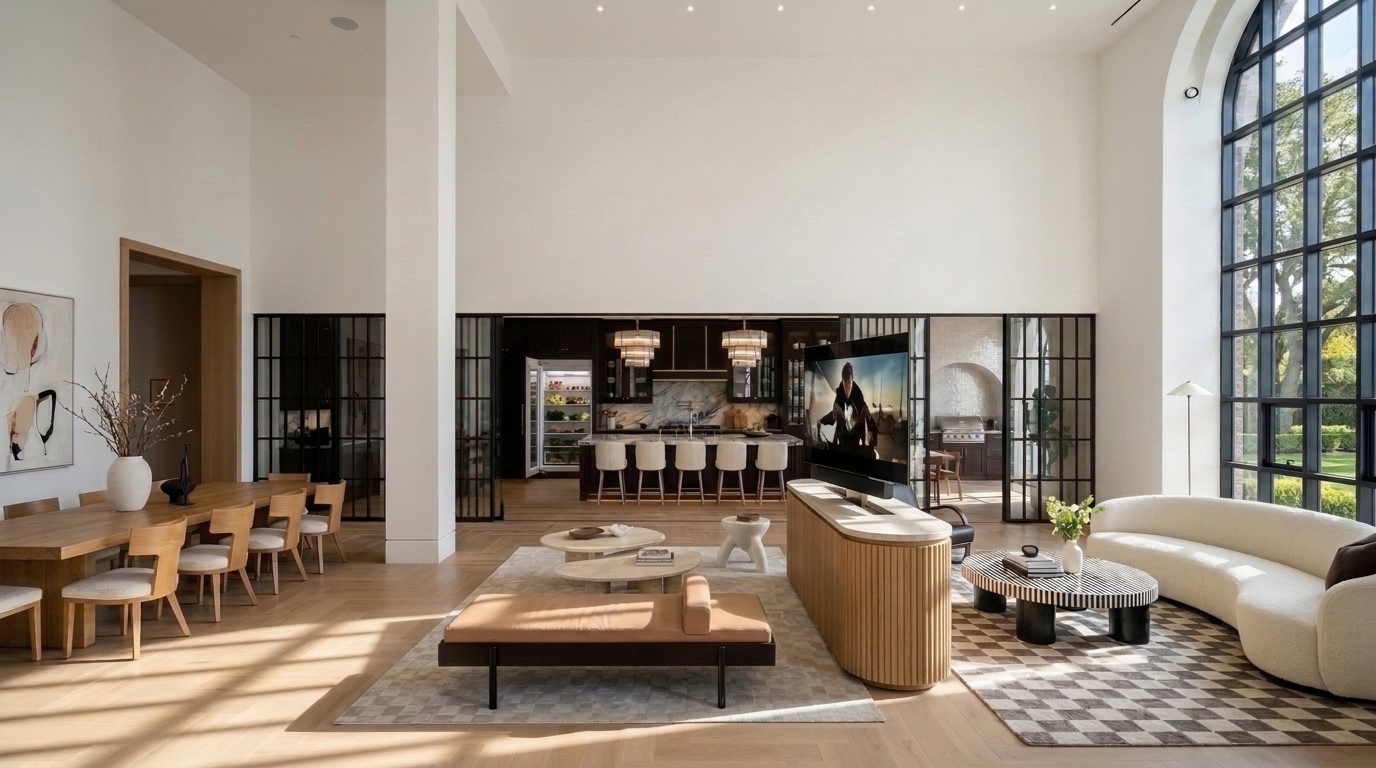
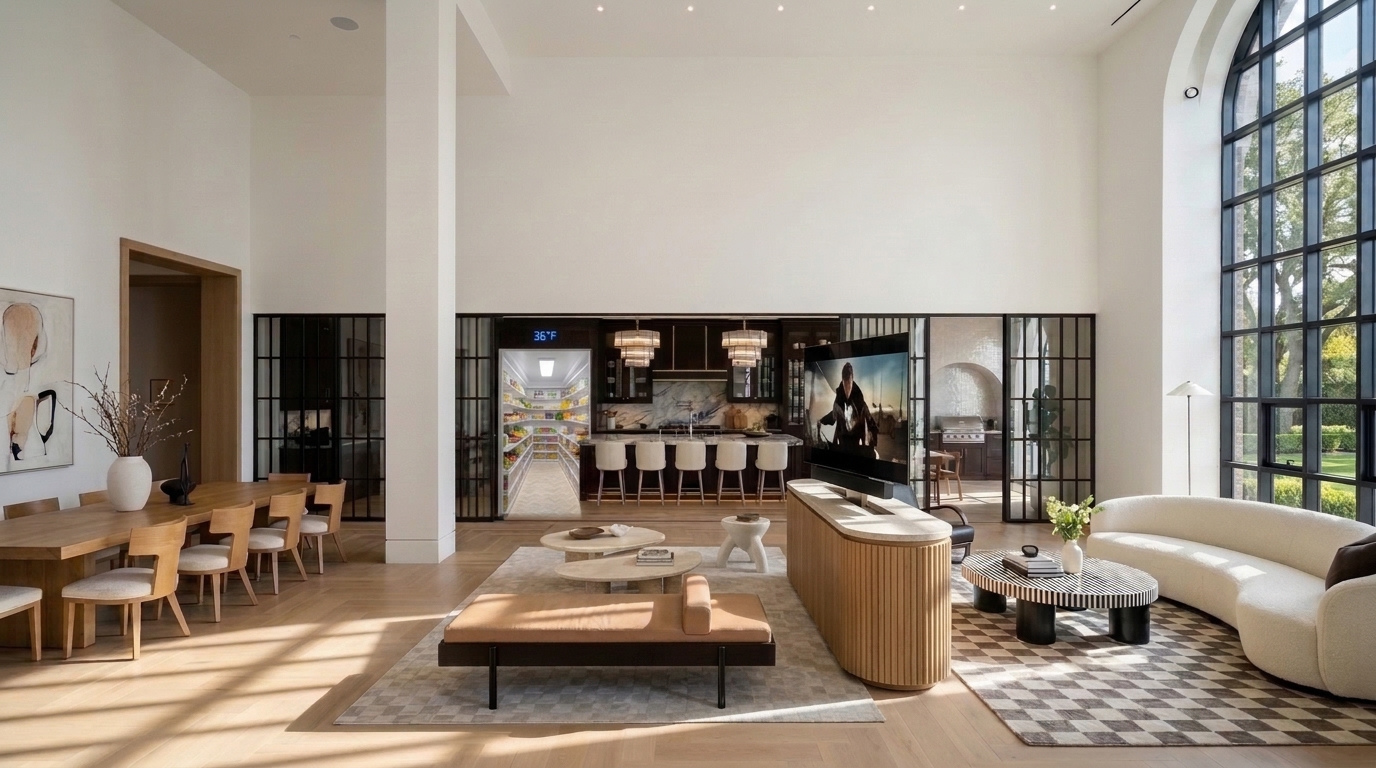
Upgrade walk-in refrigerator to 14-foot depth with rear bulk storage and 8ft6in-9ft0in doorway/ceiling head clearance for 6ft8in homeowner

Changed region(s): [[0.3438, 0.4062, 0.4375, 0.6875]]

diff --git a/estate_interactive_lookbook_standalone.html b/estate_interactive_lookbook_standalone.html
@@ -184,7 +184,7 @@
         <div class="grid grid-cols-1 lg:grid-cols-2 gap-5">
           <div onclick="openLightbox(39)" class="group cursor-zoom-in bg-stone-950 border border-amber-500/40 rounded-xl overflow-hidden">
             <div class="relative overflow-hidden">
-              <img src="static/images/01e_kitchen_walk_in_refrigerator.jpg?v=tv_fridge_sync_v1" alt="Dedicated Showcase View: Custom Built-In Dark Cherry / Mahogany Walk-In Refrigerator (36°F) with Both Doors Swung Wide Open in Our Chef's Kitchen" class="w-full h-64 sm:h-72 object-cover group-hover:scale-105 transition duration-500" />
+              <img src="static/images/01e_kitchen_walk_in_refrigerator.jpg?v=deep_fridge_6ft8_v2" alt="Dedicated Showcase View: Custom Built-In Dark Cherry / Mahogany Walk-In Refrigerator (36°F) with Both Doors Swung Wide Open in Our Chef's Kitchen" class="w-full h-64 sm:h-72 object-cover group-hover:scale-105 transition duration-500" />
               <div class="absolute top-3 left-3 px-2.5 py-1 rounded-md bg-amber-500 text-xs font-bold text-stone-950">1. WALK-IN REFRIGERATOR SHOWCASE (`36°F` • `De9XZ39x8aN` Video Style)</div>
             </div>
             <div class="p-4">
@@ -194,7 +194,7 @@
 
           <div onclick="openLightbox(6)" class="group cursor-zoom-in bg-stone-950 border border-amber-500/40 rounded-xl overflow-hidden">
             <div class="relative overflow-hidden">
-              <img src="static/images/01_great_room_kitchen.jpg?v=tv_fridge_sync_v1" alt="Wide Chef's Kitchen View Integrating the Custom Built-In Dark Cherry Walk-In Refrigerator on the Left Alongside the 22-Foot Island & Open Crittall Glass Wall" class="w-full h-64 sm:h-72 object-cover group-hover:scale-105 transition duration-500" />
+              <img src="static/images/01_great_room_kitchen.jpg?v=deep_fridge_6ft8_v2" alt="Wide Chef's Kitchen View Integrating the Custom Built-In Dark Cherry Walk-In Refrigerator on the Left Alongside the 22-Foot Island & Open Crittall Glass Wall" class="w-full h-64 sm:h-72 object-cover group-hover:scale-105 transition duration-500" />
               <div class="absolute top-3 left-3 px-2.5 py-1 rounded-md bg-amber-500 text-xs font-bold text-stone-950">2. WIDE CHEF'S KITCHEN VIEW WITH WALK-IN REFRIGERATOR</div>
             </div>
             <div class="p-4">
@@ -255,7 +255,7 @@
         <div class="grid grid-cols-1 md:grid-cols-2 xl:grid-cols-4 gap-5">
           <div onclick="openLightbox(4)" class="group cursor-zoom-in bg-stone-950 border border-amber-500/40 rounded-xl overflow-hidden">
             <div class="relative overflow-hidden">
-              <img src="static/images/01d_great_hall_tv_from_couch.jpg?v=tv_fridge_sync_v1" alt="True-to-Scale Concealed Motorized Pop-Up & 360-Swivel 85-Inch OLED TV Credenza (~90 Inches Wide x 48 Inches Tall) Facing the Great Hall Couch" class="w-full h-56 object-cover group-hover:scale-105 transition duration-500" />
+              <img src="static/images/01d_great_hall_tv_from_couch.jpg?v=deep_fridge_6ft8_v2" alt="True-to-Scale Concealed Motorized Pop-Up & 360-Swivel 85-Inch OLED TV Credenza (~90 Inches Wide x 48 Inches Tall) Facing the Great Hall Couch" class="w-full h-56 object-cover group-hover:scale-105 transition duration-500" />
               <div class="absolute top-3 left-3 px-2.5 py-1 rounded-md bg-amber-500 text-xs font-bold text-stone-950">1. Great Hall — True-to-Scale 85" TV Credenza</div>
             </div>
             <div class="p-3.5">
@@ -265,7 +265,7 @@
 
           <div onclick="openLightbox(7)" class="group cursor-zoom-in bg-stone-950 border border-amber-500/40 rounded-xl overflow-hidden">
             <div class="relative overflow-hidden">
-              <img src="static/images/01c_dual_sided_grand_staircase.jpg?v=tv_fridge_sync_v1" alt="Realistic Dual-Sided Grand Staircase Clearly Showing the First-Floor Great Hall Foreground & Full-Width Second-Floor Gallery Stretching Across the Backside of the House" class="w-full h-56 object-cover group-hover:scale-105 transition duration-500" />
+              <img src="static/images/01c_dual_sided_grand_staircase.jpg?v=deep_fridge_6ft8_v2" alt="Realistic Dual-Sided Grand Staircase Clearly Showing the First-Floor Great Hall Foreground & Full-Width Second-Floor Gallery Stretching Across the Backside of the House" class="w-full h-56 object-cover group-hover:scale-105 transition duration-500" />
               <div class="absolute top-3 left-3 px-2.5 py-1 rounded-md bg-amber-500 text-xs font-bold text-stone-950">2. Dual-Sided Stairs — Great Hall + Full Upstairs</div>
             </div>
             <div class="p-3.5">
@@ -1296,7 +1296,7 @@
         ]
       },
       {
-        src: "static/images/01a_living_room_great_room.jpg?v=tv_fridge_sync_v1",
+        src: "static/images/01a_living_room_great_room.jpg?v=deep_fridge_6ft8_v2",
         category: "level1",
         zone: "Level 1 (Open First Floor: 24' Great Hall ➔ Kitchen)",
         badge: "Level 1 • Soaring 24' Great Hall, Arched Black-Steel Cathedral Windows, 3 Open Zones & Crittall Partition to Dark Cherry Kitchen",
@@ -1310,7 +1310,7 @@
         ]
       },
       {
-        src: "static/images/01d_great_hall_tv_from_couch.jpg?v=tv_fridge_sync_v1",
+        src: "static/images/01d_great_hall_tv_from_couch.jpg?v=deep_fridge_6ft8_v2",
         category: "level1",
         zone: "Level 1 (Great Hall TV From Couch — True-to-Scale 85\" OLED Credenza)",
         badge: "Level 1 • True-to-Scale Concealed Motorized Pop-Up & 360°-Swivel 85\" OLED TV Credenza (~90\" W × 48\" H) Facing the Curved Bouclé Couch",
@@ -1324,7 +1324,7 @@
         ]
       },
       {
-        src: "static/images/01b_open_first_floor_kitchen_loggia.jpg?v=tv_fridge_sync_v1",
+        src: "static/images/01b_open_first_floor_kitchen_loggia.jpg?v=deep_fridge_6ft8_v2",
         category: "level1",
         zone: "Level 1 (Reverse: Kitchen & Zellige Loggia ➔ Great Hall)",
         badge: "Level 1 • Unchanged Dark Cherry Kitchen & 22' Island + Barrel-Vaulted Pearlescent Zellige Loggia (Overlooking Back Pool) Looking Into 24' Great Hall",
@@ -1338,7 +1338,7 @@
         ]
       },
       {
-        src: "static/images/01_great_room_kitchen.jpg?v=tv_fridge_sync_v1",
+        src: "static/images/01_great_room_kitchen.jpg?v=deep_fridge_6ft8_v2",
         category: "level1",
         zone: "Level 1 (Chef's Kitchen Close-Up — Built-In Walk-In Refrigerator, 22' Island & Crittall Wall)",
         badge: "Level 1 • Preserved Dark Cherry / Mahogany Kitchen Upgraded with the Custom Built-In Walk-In Refrigerator (De9XZ39x8aN Video Style), 22' Island & China Cabinet Next to Back Pool Doors",
@@ -1352,7 +1352,7 @@
         ]
       },
       {
-        src: "static/images/01c_dual_sided_grand_staircase.jpg?v=tv_fridge_sync_v1",
+        src: "static/images/01c_dual_sided_grand_staircase.jpg?v=deep_fridge_6ft8_v2",
         category: "level1",
         zone: "Level 1 ➔ Level 2 (Dual-Sided Stairs — Great Hall Connection & Full-Width Upstairs)",
         badge: "Level 1 ➔ Level 2 • Realistic Dual-Sided Grand Staircase Clearly Showing the First-Floor Great Hall It Connects To & the Full-Width Second-Floor Gallery Stretching Across the Backside of the House",
@@ -1828,7 +1828,7 @@
         ]
       },
       {
-        src: "static/images/01e_kitchen_walk_in_refrigerator.jpg?v=tv_fridge_sync_v1",
+        src: "static/images/01e_kitchen_walk_in_refrigerator.jpg?v=deep_fridge_6ft8_v2",
         category: "level1",
         zone: "Level 1 (Chef's Kitchen — Custom Built-In 36°F Walk-In Refrigerator Showcase)",
         badge: "Level 1 • Custom Built-In Dark Cherry / Mahogany Walk-In Refrigerator / Cold Room (36°F • Inspired by https://www.instagram.com/reels/De9XZ39x8aN/)",

diff --git a/index.html b/index.html
@@ -184,7 +184,7 @@
         <div class="grid grid-cols-1 lg:grid-cols-2 gap-5">
           <div onclick="openLightbox(39)" class="group cursor-zoom-in bg-stone-950 border border-amber-500/40 rounded-xl overflow-hidden">
             <div class="relative overflow-hidden">
-              <img src="static/images/01e_kitchen_walk_in_refrigerator.jpg?v=tv_fridge_sync_v1" alt="Dedicated Showcase View: Custom Built-In Dark Cherry / Mahogany Walk-In Refrigerator (36°F) with Both Doors Swung Wide Open in Our Chef's Kitchen" class="w-full h-64 sm:h-72 object-cover group-hover:scale-105 transition duration-500" />
+              <img src="static/images/01e_kitchen_walk_in_refrigerator.jpg?v=deep_fridge_6ft8_v2" alt="Dedicated Showcase View: Custom Built-In Dark Cherry / Mahogany Walk-In Refrigerator (36°F) with Both Doors Swung Wide Open in Our Chef's Kitchen" class="w-full h-64 sm:h-72 object-cover group-hover:scale-105 transition duration-500" />
               <div class="absolute top-3 left-3 px-2.5 py-1 rounded-md bg-amber-500 text-xs font-bold text-stone-950">1. WALK-IN REFRIGERATOR SHOWCASE (`36°F` • `De9XZ39x8aN` Video Style)</div>
             </div>
             <div class="p-4">
@@ -194,7 +194,7 @@
 
           <div onclick="openLightbox(6)" class="group cursor-zoom-in bg-stone-950 border border-amber-500/40 rounded-xl overflow-hidden">
             <div class="relative overflow-hidden">
-              <img src="static/images/01_great_room_kitchen.jpg?v=tv_fridge_sync_v1" alt="Wide Chef's Kitchen View Integrating the Custom Built-In Dark Cherry Walk-In Refrigerator on the Left Alongside the 22-Foot Island & Open Crittall Glass Wall" class="w-full h-64 sm:h-72 object-cover group-hover:scale-105 transition duration-500" />
+              <img src="static/images/01_great_room_kitchen.jpg?v=deep_fridge_6ft8_v2" alt="Wide Chef's Kitchen View Integrating the Custom Built-In Dark Cherry Walk-In Refrigerator on the Left Alongside the 22-Foot Island & Open Crittall Glass Wall" class="w-full h-64 sm:h-72 object-cover group-hover:scale-105 transition duration-500" />
               <div class="absolute top-3 left-3 px-2.5 py-1 rounded-md bg-amber-500 text-xs font-bold text-stone-950">2. WIDE CHEF'S KITCHEN VIEW WITH WALK-IN REFRIGERATOR</div>
             </div>
             <div class="p-4">
@@ -255,7 +255,7 @@
         <div class="grid grid-cols-1 md:grid-cols-2 xl:grid-cols-4 gap-5">
           <div onclick="openLightbox(4)" class="group cursor-zoom-in bg-stone-950 border border-amber-500/40 rounded-xl overflow-hidden">
             <div class="relative overflow-hidden">
-              <img src="static/images/01d_great_hall_tv_from_couch.jpg?v=tv_fridge_sync_v1" alt="True-to-Scale Concealed Motorized Pop-Up & 360-Swivel 85-Inch OLED TV Credenza (~90 Inches Wide x 48 Inches Tall) Facing the Great Hall Couch" class="w-full h-56 object-cover group-hover:scale-105 transition duration-500" />
+              <img src="static/images/01d_great_hall_tv_from_couch.jpg?v=deep_fridge_6ft8_v2" alt="True-to-Scale Concealed Motorized Pop-Up & 360-Swivel 85-Inch OLED TV Credenza (~90 Inches Wide x 48 Inches Tall) Facing the Great Hall Couch" class="w-full h-56 object-cover group-hover:scale-105 transition duration-500" />
               <div class="absolute top-3 left-3 px-2.5 py-1 rounded-md bg-amber-500 text-xs font-bold text-stone-950">1. Great Hall — True-to-Scale 85" TV Credenza</div>
             </div>
             <div class="p-3.5">
@@ -265,7 +265,7 @@
 
           <div onclick="openLightbox(7)" class="group cursor-zoom-in bg-stone-950 border border-amber-500/40 rounded-xl overflow-hidden">
             <div class="relative overflow-hidden">
-              <img src="static/images/01c_dual_sided_grand_staircase.jpg?v=tv_fridge_sync_v1" alt="Realistic Dual-Sided Grand Staircase Clearly Showing the First-Floor Great Hall Foreground & Full-Width Second-Floor Gallery Stretching Across the Backside of the House" class="w-full h-56 object-cover group-hover:scale-105 transition duration-500" />
+              <img src="static/images/01c_dual_sided_grand_staircase.jpg?v=deep_fridge_6ft8_v2" alt="Realistic Dual-Sided Grand Staircase Clearly Showing the First-Floor Great Hall Foreground & Full-Width Second-Floor Gallery Stretching Across the Backside of the House" class="w-full h-56 object-cover group-hover:scale-105 transition duration-500" />
               <div class="absolute top-3 left-3 px-2.5 py-1 rounded-md bg-amber-500 text-xs font-bold text-stone-950">2. Dual-Sided Stairs — Great Hall + Full Upstairs</div>
             </div>
             <div class="p-3.5">
@@ -1296,7 +1296,7 @@
         ]
       },
       {
-        src: "static/images/01a_living_room_great_room.jpg?v=tv_fridge_sync_v1",
+        src: "static/images/01a_living_room_great_room.jpg?v=deep_fridge_6ft8_v2",
         category: "level1",
         zone: "Level 1 (Open First Floor: 24' Great Hall ➔ Kitchen)",
         badge: "Level 1 • Soaring 24' Great Hall, Arched Black-Steel Cathedral Windows, 3 Open Zones & Crittall Partition to Dark Cherry Kitchen",
@@ -1310,7 +1310,7 @@
         ]
       },
       {
-        src: "static/images/01d_great_hall_tv_from_couch.jpg?v=tv_fridge_sync_v1",
+        src: "static/images/01d_great_hall_tv_from_couch.jpg?v=deep_fridge_6ft8_v2",
         category: "level1",
         zone: "Level 1 (Great Hall TV From Couch — True-to-Scale 85\" OLED Credenza)",
         badge: "Level 1 • True-to-Scale Concealed Motorized Pop-Up & 360°-Swivel 85\" OLED TV Credenza (~90\" W × 48\" H) Facing the Curved Bouclé Couch",
@@ -1324,7 +1324,7 @@
         ]
       },
       {
-        src: "static/images/01b_open_first_floor_kitchen_loggia.jpg?v=tv_fridge_sync_v1",
+        src: "static/images/01b_open_first_floor_kitchen_loggia.jpg?v=deep_fridge_6ft8_v2",
         category: "level1",
         zone: "Level 1 (Reverse: Kitchen & Zellige Loggia ➔ Great Hall)",
         badge: "Level 1 • Unchanged Dark Cherry Kitchen & 22' Island + Barrel-Vaulted Pearlescent Zellige Loggia (Overlooking Back Pool) Looking Into 24' Great Hall",
@@ -1338,7 +1338,7 @@
         ]
       },
       {
-        src: "static/images/01_great_room_kitchen.jpg?v=tv_fridge_sync_v1",
+        src: "static/images/01_great_room_kitchen.jpg?v=deep_fridge_6ft8_v2",
         category: "level1",
         zone: "Level 1 (Chef's Kitchen Close-Up — Built-In Walk-In Refrigerator, 22' Island & Crittall Wall)",
         badge: "Level 1 • Preserved Dark Cherry / Mahogany Kitchen Upgraded with the Custom Built-In Walk-In Refrigerator (De9XZ39x8aN Video Style), 22' Island & China Cabinet Next to Back Pool Doors",
@@ -1352,7 +1352,7 @@
         ]
       },
       {
-        src: "static/images/01c_dual_sided_grand_staircase.jpg?v=tv_fridge_sync_v1",
+        src: "static/images/01c_dual_sided_grand_staircase.jpg?v=deep_fridge_6ft8_v2",
         category: "level1",
         zone: "Level 1 ➔ Level 2 (Dual-Sided Stairs — Great Hall Connection & Full-Width Upstairs)",
         badge: "Level 1 ➔ Level 2 • Realistic Dual-Sided Grand Staircase Clearly Showing the First-Floor Great Hall It Connects To & the Full-Width Second-Floor Gallery Stretching Across the Backside of the House",
@@ -1828,7 +1828,7 @@
         ]
       },
       {
-        src: "static/images/01e_kitchen_walk_in_refrigerator.jpg?v=tv_fridge_sync_v1",
+        src: "static/images/01e_kitchen_walk_in_refrigerator.jpg?v=deep_fridge_6ft8_v2",
         category: "level1",
         zone: "Level 1 (Chef's Kitchen — Custom Built-In 36°F Walk-In Refrigerator Showcase)",
         badge: "Level 1 • Custom Built-In Dark Cherry / Mahogany Walk-In Refrigerator / Cold Room (36°F • Inspired by https://www.instagram.com/reels/De9XZ39x8aN/)",

diff --git a/docs/main_home_interior_design_concept.md b/docs/main_home_interior_design_concept.md
@@ -40,23 +40,23 @@ flowchart TB
     ChinaCab -->|"Right Next to Back Pool Door"| BackPool
 ```
 
-### A. Open First Floor View 1 — Soaring 24-Foot Gallery-White Great Hall (Arched Black-Steel Cathedral Windows, Curved Bouclé Window Lounge, Camel Daybed & Travertine Center Lounge, Open 12-Seat Oak Dining Hall & Single Structural Pier) Looking Through the Open Floor-to-Ceiling Black-Steel Crittall Glass Grid Partition Into the Preserved Dark Cherry / Mahogany Kitchen & 22-Foot Island
-![Soaring 24-Foot Open First Floor Great Hall Inspired by Instagram Video DcL3q3doXhq — Towering Two-Story Arched Matte-Black Steel Cathedral Windows Casting Sunlight Across Wide-Plank & Herringbone European White-Oak Floors, Single Square Structural Pier Subtly Dividing Three Seamless Open Zones (Right Foreground Curved Ivory Bouclé Sofa & Black-and-White Striped Round Coffee Table on Checkered Wool Rug; Center Midground Camel Leather Daybed & Nested Organic Travertine Coffee Tables; Left Midground 12-Seat Natural Oak Formal Dining Table & Warm Oak-Cased Gallery Portal to the Unchanged Bedroom/Theater Wings), Looking Straight Through the Wide-Open Floor-to-Ceiling Matte-Black Steel & Glass Crittall Sliding Grid Partition Into the 100% Preserved Dark Cherry / Mahogany Chef's Kitchen with Its 22-Foot Calacatta Verde/Viola Marble Island](/home/brianvinson/.gemini/jetski/brain/96883fd9-49e4-474d-86a1-0423e4655f3f/open_first_floor_v2_great_hall_to_dark_cherry_kitchen_1792816413555.jpg)
+### A. Open First Floor View 1 — Soaring 24-Foot Gallery-White Great Hall (Showing the Concealed TV Credenza in Its Retracted Daily State Between the Curved Bouclé Sofa & Camel Leather Daybed) Looking Through the Open Black-Steel Crittall Glass Partition Into the Dark Cherry Kitchen (With the Walk-In Refrigerator on the Left of the 60" Range & China Cabinet on the Right)
+![Soaring 24-Foot Open First Floor Great Hall Inspired by Instagram Video DcL3q3doXhq — Showing the True-to-Scale 90" W x 48" H Fluted European White-Oak & Honed Roman Travertine Concealed TV Credenza in Its Sleek Retracted/Closed State Between the Right Foreground Curved Ivory Bouclé Sofa (on the Checkered Wool Rug) and the Center Midground Camel Leather Daybed & Nested Organic Travertine Tables, Alongside the Left Midground 12-Seat Natural Oak Formal Dining Table, Looking Straight Through the Wide-Open Floor-to-Ceiling Matte-Black Steel & Glass Crittall Sliding Grid Partition Into the Dark Cherry / Mahogany Chef's Kitchen (Walk-In Refrigerator on the Left, 60" Range in the Center, Built-In China Cabinet Secret Door on the Right & 22-Foot Calacatta Verde/Viola Marble Island)](/home/brianvinson/.gemini/jetski/brain/96883fd9-49e4-474d-86a1-0423e4655f3f/open_first_floor_v2_great_hall_to_dark_cherry_kitchen_1792816413555.jpg)
 
-### B. Open First Floor View 2 (Reverse Perspective) — Standing Inside the Preserved Dark Cherry / Mahogany Kitchen (`36' × 26'` w/ 22-Foot Calacatta Verde/Viola Island) & Barrel-Vaulted Pearlescent Moroccan Zellige-Tile Breakfast Loggia (`00:13–00:21` of Video) Overlooking the Back-of-Home Swimming Pool, Looking Through the Open Floor-to-Ceiling Black-Steel Crittall Sliding Glass Grid Partition Back Into the 24-Foot Arched-Window Great Hall
-![Reverse Perspective of the Open First Floor — Standing Inside the 100% Unchanged Dark Cherry / Mahogany Chef's Kitchen (Left, with Monumental 22-Foot Calacatta Verde/Viola Green-and-Burgundy Veined Marble Slab Island, Dark Cherry / Mahogany Base, LED Toe-Kick, Cream Upholstered Stools, Tiered Fluted-Glass & Brass Chandeliers, 60" Black-and-Brass Range & Built-In China Cabinet Secret Speakeasy Door) and the Adjoining Barrel-Vaulted Pearlescent Moroccan Zellige-Tile Indoor-Outdoor Breakfast Loggia (Right, with Shimmering Vaulted Zellige Tile Ceiling, Diagonal Gray-and-Cream Checkerboard Limestone Floor Tiles, Sculptural Potted Olive Tree & Black-Steel Doors Opening to the Back-of-Home Resort Swimming Pool & Pool House/Wellness Center), Looking Through the Wide-Open Floor-to-Ceiling Matte-Black Steel & Glass Crittall Grid Partition Into the Soaring 24-Foot Arched-Window Great Hall](/home/brianvinson/.gemini/jetski/brain/96883fd9-49e4-474d-86a1-0423e4655f3f/open_first_floor_v3_kitchen_crittall_loggia_to_great_hall_1792819656798.jpg)
+### B. Open First Floor View 2 (Reverse Perspective) — Standing Inside the Dark Cherry Kitchen (`36' × 26'` w/ 22-Foot Calacatta Verde/Viola Island) & Barrel-Vaulted Pearlescent Moroccan Zellige-Tile Breakfast Loggia Overlooking the Back-of-Home Swimming Pool, Looking Through the Open Black-Steel Crittall Partition Back Into the 24-Foot Great Hall (Showing the Concealed TV Credenza Between the Curved Bouclé Sofa & Camel Leather Daybed)
+![Reverse Perspective of the Open First Floor — Standing Inside the Dark Cherry / Mahogany Chef's Kitchen (Left, with 60" Black-and-Brass Range, Built-In China Cabinet Secret Speakeasy Door to the Right of the Range & 22-Foot Calacatta Verde/Viola Marble Island) and the Adjoining Barrel-Vaulted Pearlescent Moroccan Zellige-Tile Indoor-Outdoor Breakfast Loggia (Right), Looking Through the Wide-Open Floor-to-Ceiling Matte-Black Steel & Glass Crittall Grid Partition Into the Soaring 24-Foot Arched-Window Great Hall Where the Fluted White-Oak & Roman Travertine Concealed TV Credenza and Raised 85" OLED Screen Sit Between the Curved Ivory Bouclé Sofa and the Camel Leather Daybed](/home/brianvinson/.gemini/jetski/brain/96883fd9-49e4-474d-86a1-0423e4655f3f/open_first_floor_v3_kitchen_crittall_loggia_to_great_hall_1792819656798.jpg)
 
-### C. Close-Up of the Preserved Dark Cherry / Mahogany Chef's Kitchen (`36' × 26'`) With the Custom Built-In Walk-In Refrigerator (`De9XZ39x8aN` Video Style), 22-Foot Calacatta Verde/Viola Marble Island, 60" Black-and-Brass Range, China Cabinet Secret Door Next to the Back-of-Home Pool Doors & Open Black-Steel Crittall Glass Partition to the 24-Foot Great Hall
-![Close-Up View of the Preserved 36'x26' Open-Concept Chef's Kitchen Integrated Into the New Open First Floor — Showcasing the Custom Built-In Dark Cherry / Mahogany Walk-In Refrigerator on the Far Left (With French Doors & Right-Door Vertical Glass Window Swung Open Revealing 5 Tiers of Door Storage Bins, Overhead Rectangular LED Ceiling Light Ring, Herringbone Floor, 3 Lower Tiers of Clear Pull-Out Crisper Drawers & Stocked Upper Shelving Inspired by https://www.instagram.com/reels/De9XZ39x8aN/), 60" Black-and-Brass Range with Sleek Matte-Black & Brass Tapered Hood, Built-In Dark Cherry / Mahogany Illuminated China Cabinet Secret Door Next to the Back-of-Home Pool Doors, and Center 22-Foot Calacatta Verde/Viola Green-and-Burgundy Veined Marble Slab Island with Dark Cherry / Mahogany Base, LED Toe-Kick, 6 Cream Upholstered Stools & Tiered Fluted-Glass Chandelier, Opening on the Right Through the Floor-to-Ceiling Matte-Black Steel & Glass Crittall Sliding Grid Partition Into the Barrel-Vaulted Pearlescent Moroccan Zellige-Tile Loggia, the Back-of-Home Resort Swimming Pool, and the Soaring 24-Foot Arched-Window Great Hall](/home/brianvinson/.gemini/jetski/brain/96883fd9-49e4-474d-86a1-0423e4655f3f/open_first_floor_v3_kitchen_closeup_back_pool_view_1792819690582.jpg)
+### C. Close-Up of the Dark Cherry / Mahogany Chef's Kitchen (`36' × 26'`) With the Custom Built-In Walk-In Refrigerator on the Far Left, 60" Black-and-Brass Range in the Middle-Left, China Cabinet Secret Door on the Back-Left Next to the Pool Doors, 22-Foot Island in the Center & Concealed TV Credenza Visible in the Great Hall on the Far Right
+![Close-Up View of the 36'x26' Open-Concept Chef's Kitchen — Showcasing the Custom Built-In Dark Cherry / Mahogany Walk-In Refrigerator on the Far Left, 32°F Oyster Raw Bar & 60" Black-and-Brass Range in the Middle-Left, Built-In Dark Cherry Illuminated China Cabinet Secret Door at the Back-Left Next to the Pool Doors, 22-Foot Calacatta Verde/Viola Marble Island in the Center, and on the Far Right Through the Open Black-Steel Crittall Glass Partition, the Camel Leather Daybed and the Fluted European White-Oak & Roman Travertine Concealed TV Credenza Between the Daybed and the Curved Ivory Bouclé Sofa](/home/brianvinson/.gemini/jetski/brain/96883fd9-49e4-474d-86a1-0423e4655f3f/open_first_floor_v3_kitchen_closeup_back_pool_view_1792819690582.jpg)
 
-### C2. Dedicated Showcase View: Custom Built-In Dark Cherry / Mahogany Walk-In Refrigerator / Cold Room (`36°F` — Inspired by `https://www.instagram.com/reels/De9XZ39x8aN/`) Integrated Directly Into Our Dark Cherry & Calacatta Verde/Viola Chef's Kitchen
-![Dedicated Showcase View of the Custom Built-In Dark Cherry / Mahogany Walk-In Refrigerator (Inspired by https://www.instagram.com/reels/De9XZ39x8aN/) — Preserving the Essence of Our Kitchen on the Left (22-Foot Calacatta Verde/Viola Waterfall Marble Island with Cream Stools, Tiered Ribbed-Glass & Brass Chandelier, 60" Black-and-Brass Range & Hood, and 32°F–34°F Chilled Oyster Raw Bar & Damascus Knife Vault Column) While Both Custom Dark Cherry French Refrigerator Doors Swing Wide Open Beneath the 36°F Digital Readout to Reveal 5 Tiers of Stocked Refrigerator Door Bins on Both Doors and a Full U-Shaped Walk-In Cold Room Inside (Glowing Rectangular LED Halo Ceiling Light Ring, Herringbone Wood-Tile Floor with Stainless Vent Threshold, 3 Lower Tiers of 12+ Crystal-Clear Pull-Out Refrigerated Crisper Drawers Wrapping Around All 3 Walls, and 3–4 Upper Tiers of Illuminated U-Shaped White Open Shelving)](/home/brianvinson/.gemini/jetski/brain/96883fd9-49e4-474d-86a1-0423e4655f3f/kitchen_walk_in_refrigerator.jpg)
+### C2. Dedicated Showcase View: Custom Built-In Dark Cherry / Mahogany Walk-In Refrigerator / Cold Room (`36°F` — Inspired by `https://www.instagram.com/reels/De9XZ39x8aN/`) Correctly Positioned on the LEFT of the 32°F Oyster Raw Bar & 60" Range, With the China Cabinet Secret Door on the RIGHT of the Range Next to the Back Pool Doors
+![Dedicated Showcase View of the Custom Built-In Dark Cherry / Mahogany Walk-In Refrigerator (Inspired by https://www.instagram.com/reels/De9XZ39x8aN/) — Positioned in Its Correct Place on the LEFT of the Dark Cherry Cabinetry Wall (With Both Custom Dark Cherry French Doors Swung Wide Open Beneath the 36°F Digital Readout to Reveal 5 Tiers of Stocked Door Bins and the U-Shaped Walk-In Cold Room With Rectangular LED Halo Ceiling Light Ring, Herringbone Floor, 3 Lower Tiers of 12+ Clear Pull-Out Crisper Drawers & Upper Illuminated White Open Shelving), Followed in the Center by the 32°F Chilled Oyster Raw Bar, Miele Double Ovens & 60" Black-and-Brass Range & Hood, and on the Far Right by the Built-In Dark Cherry Illuminated Glass-Front China Cabinet (Secret Speakeasy Door) Next to the Tall Black-Steel Back Pool Doors](/home/brianvinson/.gemini/jetski/brain/96883fd9-49e4-474d-86a1-0423e4655f3f/kitchen_walk_in_refrigerator.jpg)
 
-### D. Dual-Sided (Bifurcated Twin-Wing) Grand Staircase Rising From the 24-Foot Great Hall & Formal Dining Area — Showing the First-Floor Room It Connects To Before Going Upward + Expansive Full-Width Second-Floor Gallery Balcony Stretching Across the Whole Backside of the House (`1. Master Bedroom` on Far Left to `5. Separate His Bathroom` on Far Right)
-![Dual-Sided Grand Staircase Rising From the 24-Foot Open First Floor Great Hall — Clearly Showing the First-Floor Great Hall (12-Seat Natural Oak Formal Dining Table & Bouclé Chairs on Left, Camel Leather Daybed & Curved Bouclé Lounge on Right, Herringbone White-Oak Floors & Black-Steel Crittall Glass Partition to Kitchen) That the Staircase Connects To Before Going Upward, and Rising via a Wide Central Flight & Mid-Landing to Two Sweeping Upper Flights and an Expansive Full-Width Upstairs Gallery Balcony Stretching Across the Entire Backside of the House (Backed by the Long Solid Windowless Venetian Plaster Wall Where 3. Her's Closet & 4. His Closet Sit Upstairs), Connecting 1. Upstairs Master Bedroom at the Far West/Left to 5. Separate His Dark Marble Bathroom at the Far East/Right](/home/brianvinson/.gemini/jetski/brain/96883fd9-49e4-474d-86a1-0423e4655f3f/dual_sided_grand_staircase.jpg)
+### D. Dual-Sided (Bifurcated Twin-Wing) Grand Staircase Rising From the 24-Foot Great Hall & Formal Dining Area — Showing the Concealed TV Credenza Between the Camel Leather Daybed & Curved Ivory Bouclé Sofa in the Right Foreground + Expansive Full-Width Second-Floor Gallery Balcony
+![Dual-Sided Grand Staircase Rising From the 24-Foot Open First Floor Great Hall — Showing the First-Floor Great Hall in the Foreground (12-Seat Natural Oak Formal Dining Table on the Left; Camel Leather Daybed, True-to-Scale 90" W x 48" H Fluted White-Oak & Roman Travertine Concealed TV Credenza With Raised 85" OLED Screen, and Curved Ivory Bouclé Sofa on the Checkered Rug on the Right), Rising via a Wide Central Flight & Mid-Landing to Two Sweeping Upper Flights and an Expansive Full-Width Upstairs Gallery Balcony](/home/brianvinson/.gemini/jetski/brain/96883fd9-49e4-474d-86a1-0423e4655f3f/dual_sided_grand_staircase.jpg)
 
-### E. True-to-Scale Concealed 85-Inch TV Cabinet in the Great Hall (`7.5' Wide × 4' Tall` Fluted White-Oak & Roman Travertine Media Credenza Sized to 100% House and Conceal the Full 85-Inch 4K OLED Screen & Soundbar)
-![True-to-Scale Concealed 85-Inch TV Solution in the 24-Foot Great Hall — Keeping the Arched Black-Steel Cathedral Windows, Single Square Pier, Curved Ivory Bouclé Couch, Black-and-White Striped Round Coffee Table, Checkered Rug, Camel Leather Daybed, 12-Seat Oak Dining Table & Open Black-Steel Crittall Glass Partition to the Dark Cherry Kitchen 100% As-Is, While a True-to-Scale 7.5-Foot-Wide by 4-Foot-Tall (90" W × 48" H × 22" D) Honed Roman Travertine & Fluted European White-Oak Architectural Media Credenza Cabinet Physically Houses and Raises the Full 85-Inch 4K OLED TV (74.5" W × 42.5" H) & Dolby Atmos Soundbar on a Heavy-Duty Motorized Lift & 360°-Swivel Column Facing the Curved Ivory Bouclé Couch Area](/home/brianvinson/.gemini/jetski/brain/96883fd9-49e4-474d-86a1-0423e4655f3f/great_hall_tv_from_couch.jpg)
+### E. True-to-Scale Concealed 85-Inch TV Cabinet in the Great Hall (`7.5' Wide × 4' Tall` Fluted White-Oak & Roman Travertine Media Credenza Raised for TV Viewing, With the Walk-In Refrigerator Visible on the Left of the Kitchen Wall & China Cabinet on the Right)
+![True-to-Scale Concealed 85-Inch TV Solution in the 24-Foot Great Hall — Pixel-Locked Twin View to View A Showing the True-to-Scale 7.5-Foot-Wide by 4-Foot-Tall (90" W × 48" H × 22" D) Honed Roman Travertine & Fluted European White-Oak Architectural Media Credenza Cabinet Raising the Full 85-Inch 4K OLED TV (74.5" W × 42.5" H) & Dolby Atmos Soundbar on Its Motorized Lift Facing the Curved Ivory Bouclé Couch Area, While the Kitchen Background Shows the Custom Walk-In Refrigerator on the Left of the 60" Range and the China Cabinet Secret Door on the Right](/home/brianvinson/.gemini/jetski/brain/96883fd9-49e4-474d-86a1-0423e4655f3f/great_hall_tv_from_couch.jpg)
 
 - **How the Open First Floor from the Instagram Video (`https://www.instagram.com/p/DcL3q3doXhq/`), True-to-Scale Concealed 85" Pop-Up/Swivel TV Credenza & Expansive Full-Width Dual-Sided Grand Staircase Work Together:**
   0. **True-to-Scale Concealed Motorized Pop-Up & 360°-Swivel 85-Inch 4K OLED TV Credenza (`90" / 7.5' Wide × 48" / 4' Tall × 22" Deep` — Physically Sized to 100% Conceal an 85-Inch TV):**
@@ -81,11 +81,12 @@ flowchart TB
 - **100% Preserved Large Open-Concept Chef's Kitchen (`36' × 26'` — Unified Rich Dark Cherry / Mahogany Wood Cabinetry + `@builtbycarlene` 22-Foot Calacatta Verde/Viola Marble Island & All 4 Elite Chef Upgrade Packages):**
   - **Hero Clutter-Free 22-Foot Calacatta Verde / Calacatta Viola Marble Slab Island & Backsplash:** Crafted from book-matched **polished Calacatta Verde / Calacatta Viola Italian marble slabs** (creamy alabaster-white background with dramatic brecciated **sage-emerald green, deep burgundy-plum/wine, and warm gold veining** and a stepped/beveled edge profile), kept sleek and clutter-free so the stone slab reads like fine art.
   - **Dark Cherry / Mahogany Island Base, Brushed-Brass Pulls, LED Toe-Kick, Cream Upholstered Stools & Tiered Fluted-Glass Drum Chandeliers:** The 22-foot island rests on a **rich dark cherry / mahogany shaker drawer base** with **oversized horizontal brushed-brass bar pulls** and a **warm glowing LED toe-kick ribbon**, lined with **6 plush cream/champagne upholstered channel-split-back counter stools** and crowned overhead by **tiered cylindrical fluted/ribbed glass and brushed-brass drum chandeliers**.
-  - **Custom Built-In Dark Cherry / Mahogany Walk-In Refrigerator / Cold Room (`36°F` — Inspired by `https://www.instagram.com/reels/De9XZ39x8aN/`):** Instead of a standard shallow refrigerator, the tall dark cherry / mahogany refrigerator cabinet features matching classical crown molding, an upper wood transom panel, a flush **`36°F` digital temperature readout**, and custom French refrigerator doors (including a vertical insulated glass viewing window in the right door). Swinging both doors open reveals **5 full-height tiers of white and clear acrylic refrigerator door bins** on the inside of both doors (stocked with milk jugs, fresh-squeezed orange juice carafes, San Pellegrino, wine, and condiments) and lets you step directly inside a **`~7' × 9'` U-shaped walk-in cold room** featuring:
-    - **Overhead Rectangular LED Halo Light Ring** recessed into the white ceiling;
-    - **Warm Herringbone Wood-Look Porcelain Tile Floor** with a flush stainless-steel threshold vent plate;
-    - **Lower 3-Tier U-Shaped Perimeter Bank of 12+ Crystal-Clear Pull-Out Refrigerated Crisper Drawers** wrapping around the Left, Back, and Right walls (holding farm eggs, citrus, berries, greens, and vegetables);
-    - **Upper 3-to-4 Tiers of U-Shaped Illuminated White Open Shelving** wrapping around all 3 walls (displaying artisan cheeses, glass mason jars, wooden produce bowls, and beverages).
+  - **Custom Built-In Dark Cherry / Mahogany 14-Foot-Deep Walk-In Refrigerator / Cold Room (`36°F`, `8' W × 14' D × 9' H` — Sized With an `8'6"` Doorway & `9'0"` Ceiling for `6'8"` Head Clearance, Inspired by `https://www.instagram.com/reels/De9XZ39x8aN/`):** Instead of a shallow reach-in or low-lintel refrigerator, the upper wood cabinet header above the doors is eliminated so the twin dark cherry / mahogany French doors extend nearly all the way up to the top crown molding (with the **`36°F` digital temperature readout** centered in the slim upper frieze). This provides a towering **`8'6"` (`102"`) doorway clear opening height** and **`9'0"` (`108"`) interior ceiling height**—giving a **`6'8"` (`80"`) homeowner `22 to 28 inches` (`~2+ feet`) of overhead head clearance** when walking through the doorway and standing anywhere inside. Stepping inside reveals an expansive **`8' W × 14' D × 9' H` (`14-foot-deep`) walk-in cold room** featuring:
+    - **Elongated Rectangular LED Halo Ceiling Light Ring** recessed into the `9'0"`-high white ceiling illuminating the full `14-foot` depth;
+    - **14-Foot-Deep Herringbone Wood-Look Porcelain Tile Walk-In Corridor** (`~42"` wide central walkway) so you can comfortably walk all the way to the back;
+    - **Lower 3-Tier Perimeter Bank of 24+ Crystal-Clear Pull-Out Refrigerated Crisper Drawers** stretching along the full `14-foot` Left and Right side walls (holding color-sorted citrus, berries, greens, and vegetables);
+    - **Upper 4-to-5 Tiers of Fully Stocked Illuminated White Open Shelving** running along both `14-foot` side walls (displaying fresh fruit bowls, glass milk/juice carafes, sparkling water, and meal-prep containers);
+    - **Dedicated Full-Width Rear Bulk & Entertaining Cold-Storage Wall at the Back (`14'` Deep):** Multi-tier rear shelving and bulk storage crates at the far back wall for whole artisan cheese wheels, catering platters, party trays, and extra bulk provisions.
   - **Unified Dark Cherry / Mahogany Custom Millwork Throughout:** Every wooden cabinet in the kitchen—including the **Custom Built-In Walk-In Refrigerator**, the **32°F–34°F Oyster Raw Bar & Damascus Knife Vault column**, the **upper glass-front vitrines and lower drawer cabinets flanking the 60" stove**, the **22-foot island base**, and the **built-in illuminated glass-front China Cabinet Speakeasy door**—is crafted in the **exact same rich, deep dark cherry / mahogany stained wood**.
   - **Professional 60" Black-and-Brass Gas Range, Matte-Black & Brass Tapered Hood & Built-In Miele/Gaggenau Modules:** A 60" commercial-grade black-and-brass gas range sits beneath a sleek matte-black tapered range hood with brushed-brass strapping, a Calacatta Verde/Viola slab backsplash, and an articulated brass pot-filler.
   - **All 4 Elite Chef's Kitchen Upgrade Packages (Included & Rendered):**
